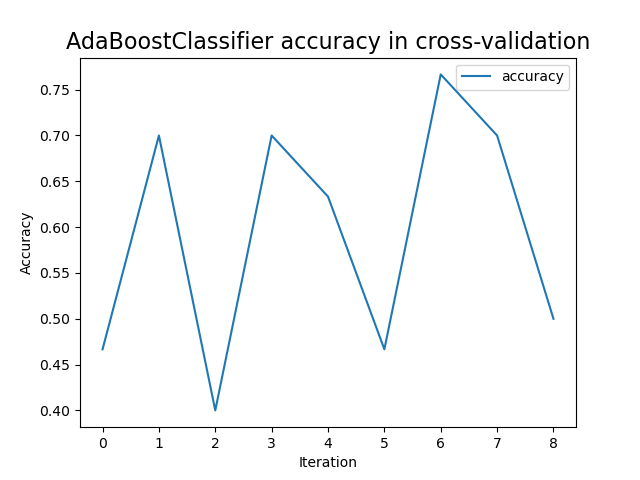
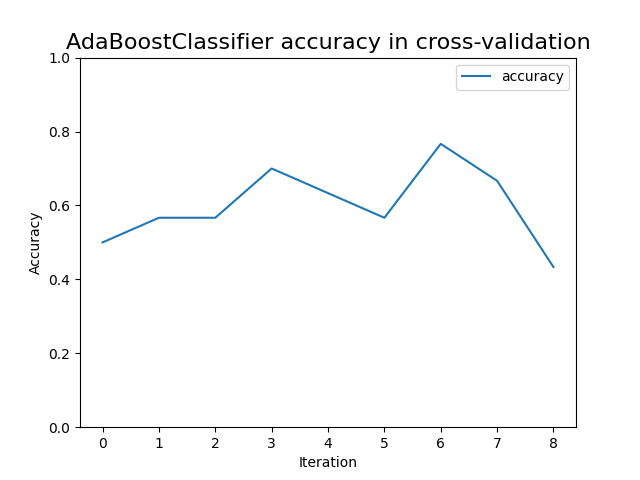
added feature selection based on mutual info

diff --git a/main.py b/main.py
@@ -11,6 +11,7 @@ from collections import Counter
 from sklearn import metrics
 from sklearn.decomposition import PCA
 from sklearn.ensemble import RandomForestClassifier, AdaBoostClassifier
+from sklearn.feature_selection import SelectKBest, chi2, f_classif, mutual_info_classif, mutual_info_regression
 from sklearn.linear_model import LogisticRegression
 from sklearn.metrics import accuracy_score, f1_score
 from sklearn.model_selection import train_test_split, TimeSeriesSplit
@@ -34,6 +35,7 @@ EXPORT_CLASSIFIER = False
 PLOT_GRAPH = False
 
 CRYPTO_CURRENCY = "BTC-USD"
+BEST_CLASSIFIER = 3 #LinearRegression
 
 
 def scraper(crypto_name):
@@ -120,6 +122,7 @@ def plot_accuracy_cross_validation(clf, scores):
     plt.title(str(clf).split('(')[0] + ' accuracy in cross-validation', fontsize=16)
     plt.xlabel("Iteration")
     plt.ylabel("Accuracy")
+    plt.ylim([0, 1])
     plt.savefig('plots/plot-accuracy-cross-validation/' + str(clf).split('(')[0] + '.png')
 
 
@@ -140,12 +143,14 @@ def plot_fscore_cross_validation(clf, f1_down, f1_flat, f1_up):
     plt.title(str(clf).split('(')[0] + ' f score in cross-validation', fontsize=16)
     plt.xlabel("Iteration")
     plt.ylabel("F-Score")
+    plt.ylim([0, 1])
     plt.savefig('plots/plot-fscore-cross-validation/' + str(clf).split('(')[0] + '.png')
 
 
 def create_preprocessor(predictors, pca_comp):
     numeric_transformer = Pipeline(steps=[
         ('scaler', StandardScaler()),  # Standardize features by removing the mean and scaling to unit variance
+        ('attributeSelection', SelectKBest(score_func=mutual_info_regression, k=7)),
         ("pca", PCA(n_components=pca_comp))
     ])
 
@@ -271,23 +276,23 @@ if __name__ == '__main__':
     # we delete the last tuple that after shifting the dataframe lost its trend attribute value
     dataset = dataset.iloc[:-1, :]
 
-    if PLOT_GRAPH:
-         plot_graph(dataset)
-        # we can only perform one: show() or savefig()
-         plt.show()
-         plt.savefig('plots/labelled-graph.png')
-        #plot_correlation_matrix(dataset)
-
     predictors = ['open',
                   'high',
                   'low',
                   'adj_close',
                   'ema_short',
                   'ema_long',
+                  'diff_ema',
                   'volume'
                   ]
 
-    plot_pca_scatter(dataset, predictors, CRYPTO_CURRENCY.split('-')[0])
+    if PLOT_GRAPH:
+        plot_graph(dataset)
+        # we can only perform one: show() or savefig()
+        plt.show()
+        plt.savefig('plots/labelled-graph.png')
+        #plot_correlation_matrix(dataset)
+        #plot_pca_scatter(dataset, predictors, CRYPTO_CURRENCY.split('-')[0])
 
     # CLASSIFIERS TRAINING
     classifiers = [
@@ -318,7 +323,7 @@ if __name__ == '__main__':
         print(str(classifier) + "\t\t\t\t" + str(overall_accuracy_avg_means[str(classifier)]) + "\t" + str(
             overall_f1[str(classifier)]))
 
-    print("\nThe classifier that performs better in terms of Accuracy and F1-score is the " + str(classifiers[0]))
+    print("\nThe classifier that performs better in terms of Accuracy and F1-score is the " + str(classifiers[BEST_CLASSIFIER]))
 
     # TRAINING WITH THE FINAL MODEL
 
@@ -338,7 +343,7 @@ if __name__ == '__main__':
 
     pipe = Pipeline(steps=[
         ('preprocessor', preprocessor)
-        , ('classifier', classifiers[0])
+        , ('classifier', classifiers[BEST_CLASSIFIER])
     ])
 
     # Train the model
@@ -348,7 +353,7 @@ if __name__ == '__main__':
     y_pred = pipe.predict(x_test)
 
     # Evaluate the performance
-    print("\nTraining ", str(classifiers[0]))
+    print("\nTraining ", str(classifiers[BEST_CLASSIFIER]))
     accuracy = accuracy_score(y_test, y_pred)
 
     print("Accuracy on test set: ", accuracy)
@@ -368,6 +373,6 @@ if __name__ == '__main__':
         filename = 'model/' + CRYPTO_CURRENCY + '_classifier.pkl'
         final_pipe = Pipeline(steps=[
             ('preprocessor', preprocessor)
-            , ('classifier', classifiers[0])
+            , ('classifier', classifiers[BEST_CLASSIFIER])
         ]).fit(x_final_train, y_final_train.values.ravel())
         joblib.dump(final_pipe, filename)
